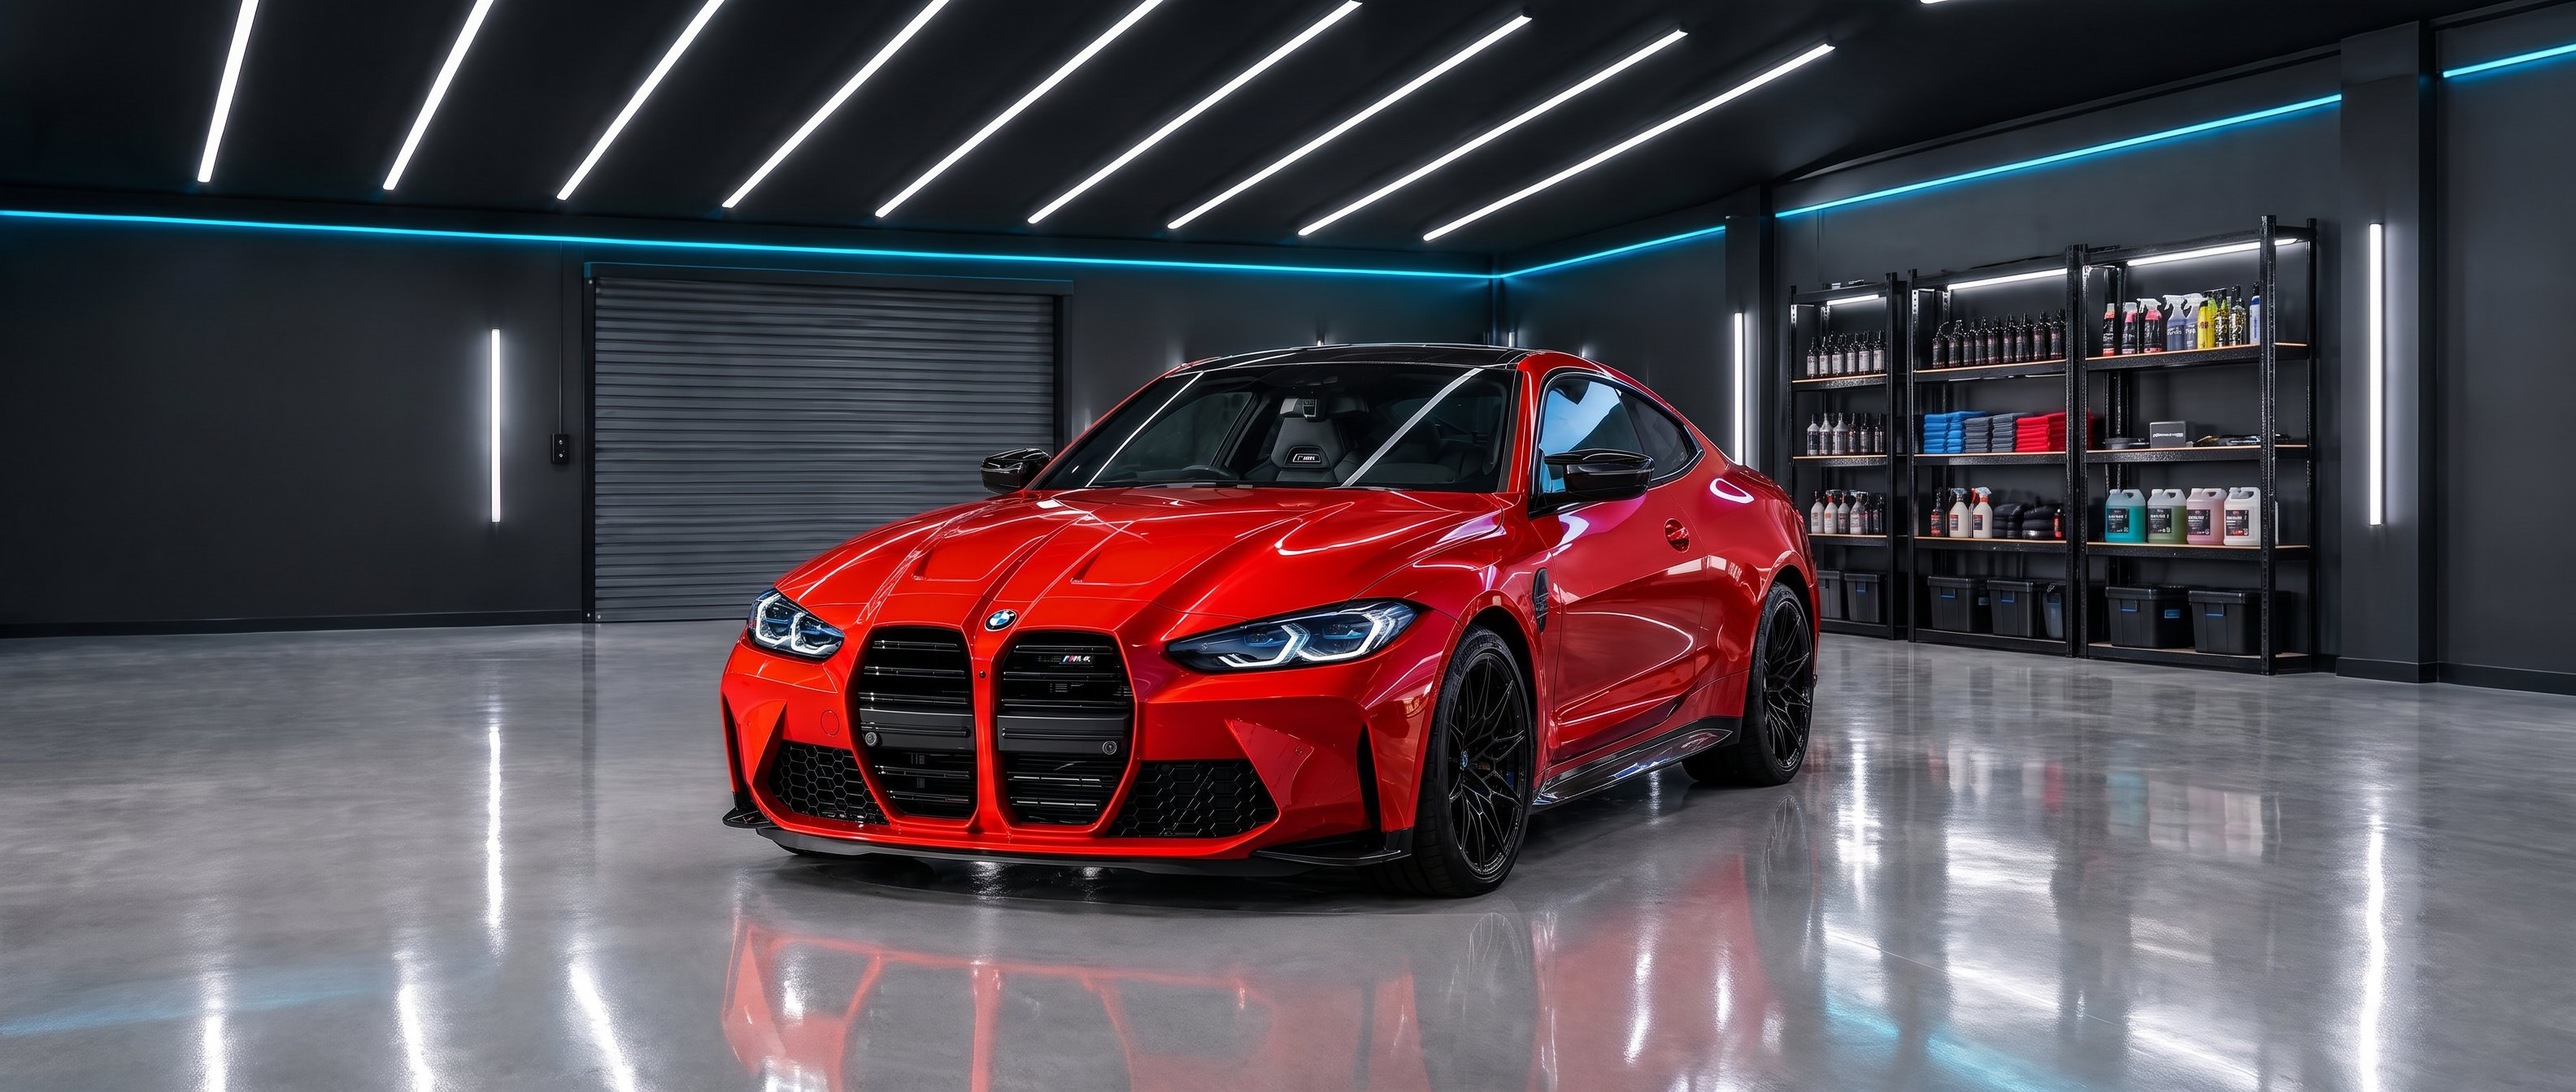
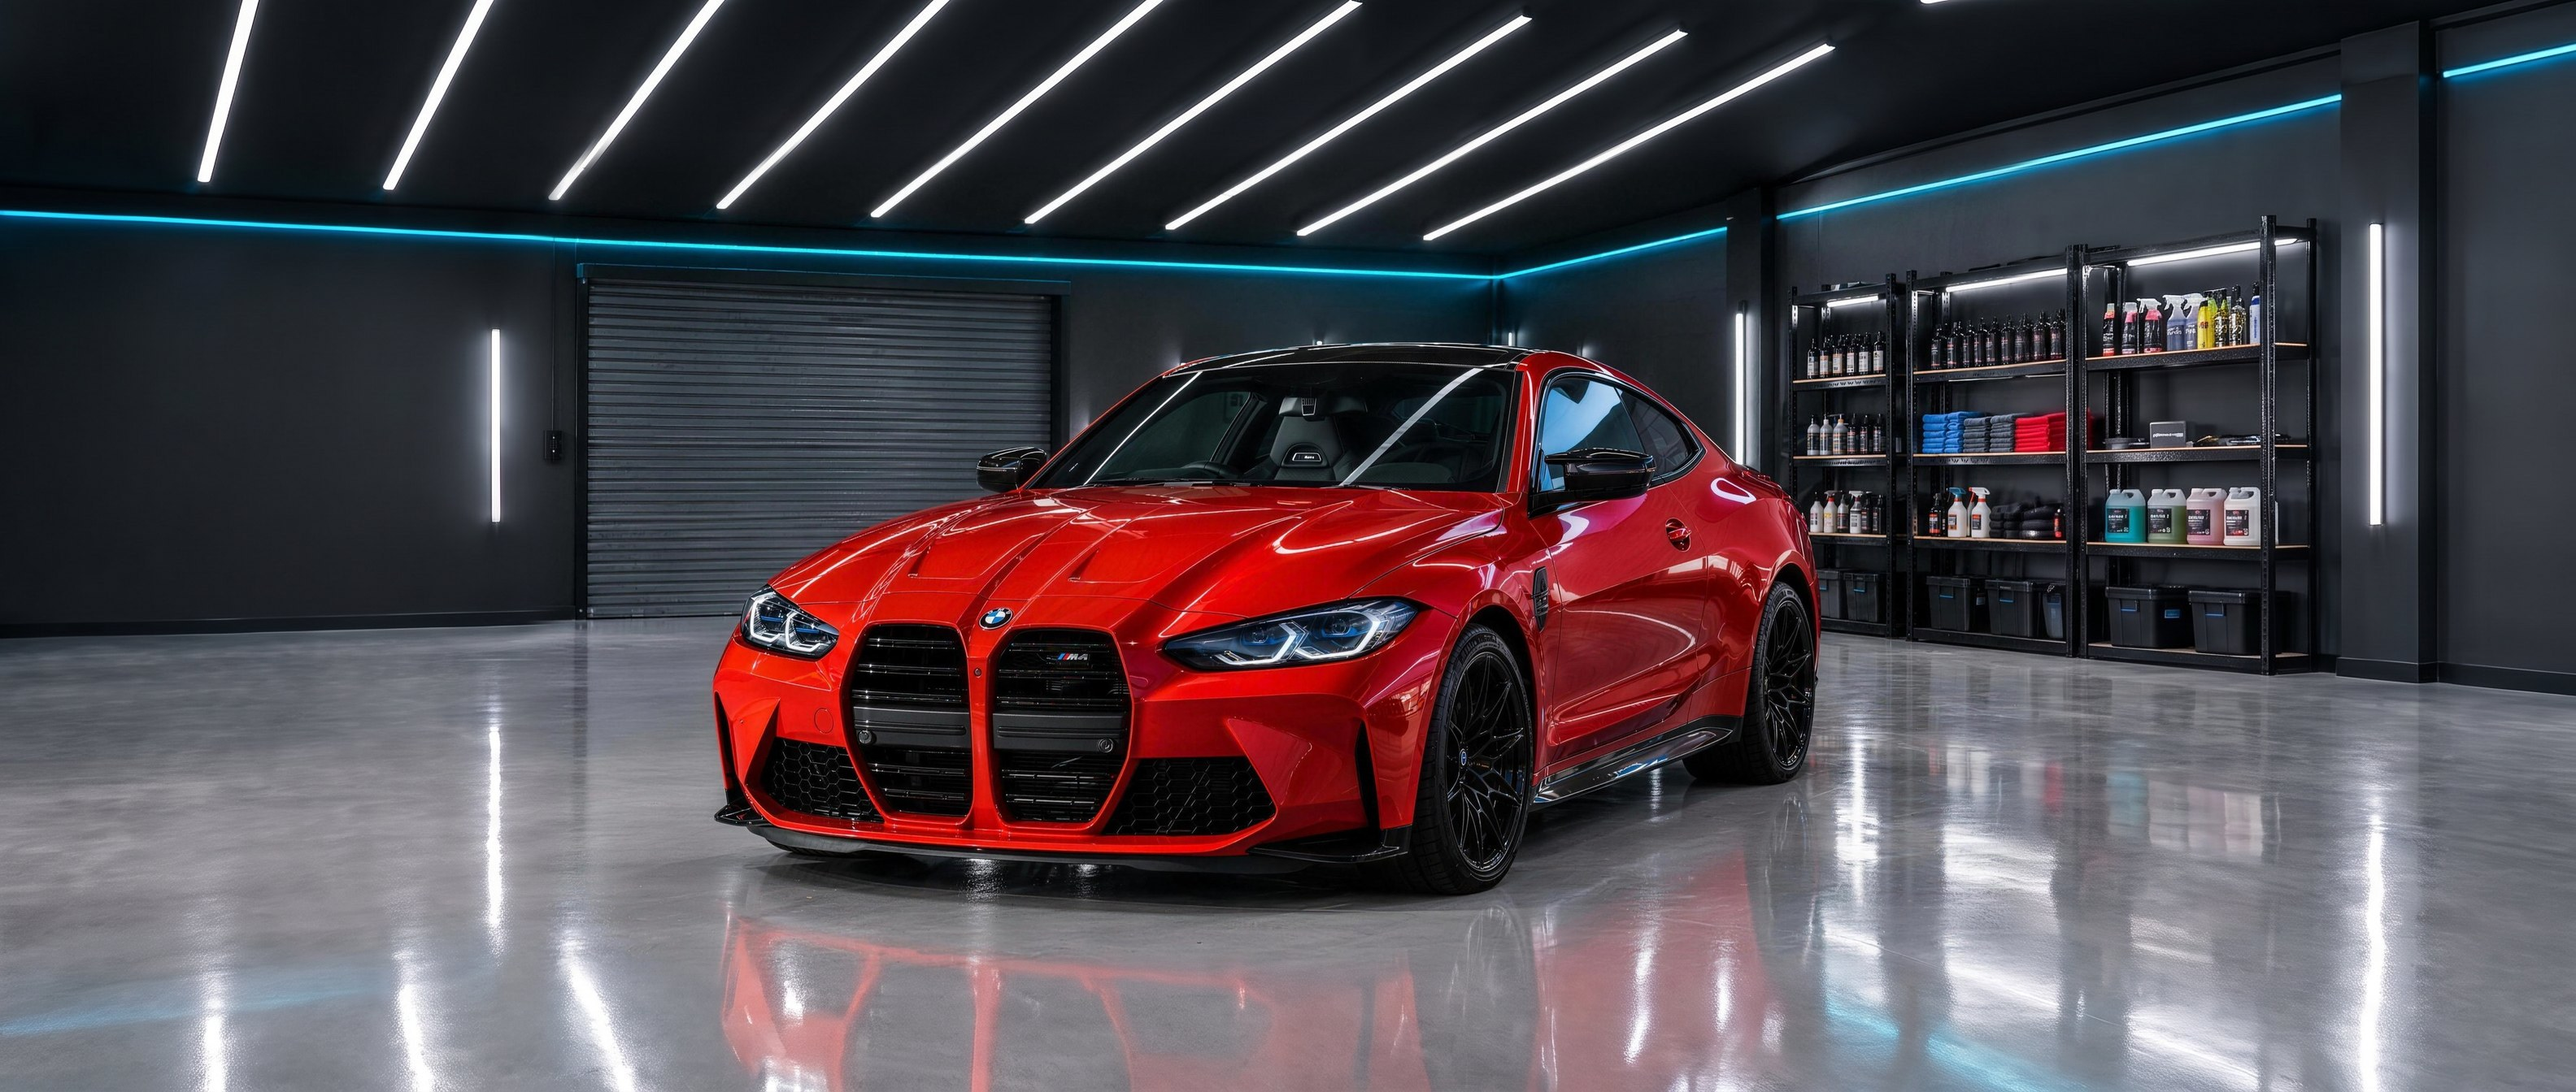
Desktop: one continuous take
- Remove the separate wide ending image (its car was redrawn, so the switch showed)
- Set the exact original photo into the wide opening so the push-in lands on it

Claude-Session: https://claude.ai/code/session_014YeQqzYE8qphkyeCjmkF6u

diff --git a/index.html b/index.html
@@ -687,8 +687,8 @@ const loaded = Promise.all([
   loadImg('clean', PHONE ? 'assets/p_clean.jpg' : 'assets/clean.jpg'),
   loadImg('dirty', PHONE ? 'assets/p_dirty.jpg' : 'assets/dirty.jpg'),
   loadImg('mask', 'assets/mask_full.png')]);
-/* desktop: the opening and closing shots with more workshop around them, so the car sits further away */
-if (!PHONE) { loadImg('cleanW', 'assets/clean_wide.jpg'); loadImg('dirtyW', 'assets/dirty_wide.jpg'); loadImg('endW', 'assets/end_wide.jpg'); }
+/* desktop: the opening shot with more workshop around it, so the car starts further away */
+if (!PHONE) { loadImg('cleanW', 'assets/clean_wide.jpg'); loadImg('dirtyW', 'assets/dirty_wide.jpg'); }
 
 let W = 0, H = 0, DPR = 1, dirty = true;
 const off = document.createElement('canvas'), octx = off.getContext('2d');
@@ -706,14 +706,13 @@ function resize() {
 
 /* ---------- scroll timeline ---------- */
 const TL = { a: [.205, .36], b: [.36, .47], c: [.47, .6], e: [.615, .72], d: [.745, .93] };
-const WASH = [.02, .18], PUSH = [.14, .19], OUT = [.93, .975], TO_A = [.19, .205], C_TO_E = [.6, .615], E_TO_D = [.722, .745];
+const WASH = [.02, .18], PUSH = [.14, .19], TO_A = [.19, .205], C_TO_E = [.6, .615], E_TO_D = [.722, .745];
 const u = k => clamp((sp - TL[k][0]) / (TL[k][1] - TL[k][0]));
 
 /* ---------- framing ----------
    Every shot fills the screen. Boxes say where the original shot sits inside a wider or taller one (measured),
    so effects and sparkles can be placed on the car and the camera can move between the two framings. */
-const WBOX = { x: .1995, y: .1190, w: .5961, h: .7945 };   /* desktop opening, inside clean_wide / dirty_wide */
-const EBOX = { x: .1888, y: .0893, w: .5872, h: .7826 };   /* desktop ending, inside end_wide */
+const WBOX = { x: .20139, y: .11905, w: .59312, h: .79241 }; /* desktop opening: the exact original photo, set into clean_wide / dirty_wide */
 const PBOX = { x: .0026, y: .3728, w: .9975, h: .3148 };   /* phone opening, inside p_clean / p_dirty */
 const PEBOX = { x: .0026, y: .4237, w: .9975, h: .3148 };  /* phone ending, inside the last pull-back frame */
 const innerOf = (pl, box = WBOX) => ({ dx: pl.dx + box.x * pl.dw, dy: pl.dy + box.y * pl.dh, dw: box.w * pl.dw, dh: box.h * pl.dh });
@@ -915,7 +914,7 @@ function pick() {
 }
 /* identity of what's on screen: if it hasn't changed, there's nothing to redraw */
 let shown = '';
-const sceneKey = ({ base, over, overA, dip }) => (sp < TL.a[0] || sp > OUT[0] ? sp.toFixed(4) : '') + (base && base.src) + '|' + (over && over.src) + '|' + overA.toFixed(3) + '|' + dip.toFixed(3);
+const sceneKey = ({ base, over, overA, dip }) => (sp < TL.a[0] ? sp.toFixed(4) : '') + (base && base.src) + '|' + (over && over.src) + '|' + overA.toFixed(3) + '|' + dip.toFixed(3);
 
 function render(t, dt, sel) {
   ctx.clearRect(0, 0, W, H);
@@ -933,13 +932,7 @@ function render(t, dt, sel) {
   draw(still, pl);
   if (sp < TL.a[0]) washFx(carPl, t, dt, pl, dirtyImg);
   if (parts.length) stepParts(dt);
-  /* desktop ending: keep pulling back from the door shot until the whole workshop is in view */
-  let glintPl = PHONE ? innerOf(pl, PEBOX) : pl;
-  if (!PHONE && img.endW && sp > OUT[0]) {
-    const epl = zoomRect(img.endW, EBOX, 1 - io(clamp((sp - OUT[0]) / (OUT[1] - OUT[0]))));
-    draw(img.endW, epl, ss(OUT[0], OUT[0] + .01, sp));
-    glintPl = innerOf(epl, EBOX);
-  }
+    const glintPl = PHONE ? innerOf(pl, PEBOX) : pl;
   if (over && overA > 0) draw(over, frameRect(over.naturalWidth, over.naturalHeight), overA);
   if (dip > 0) { ctx.fillStyle = `rgba(12,13,15,${dip})`; ctx.fillRect(0, 0, W, H); }
 
